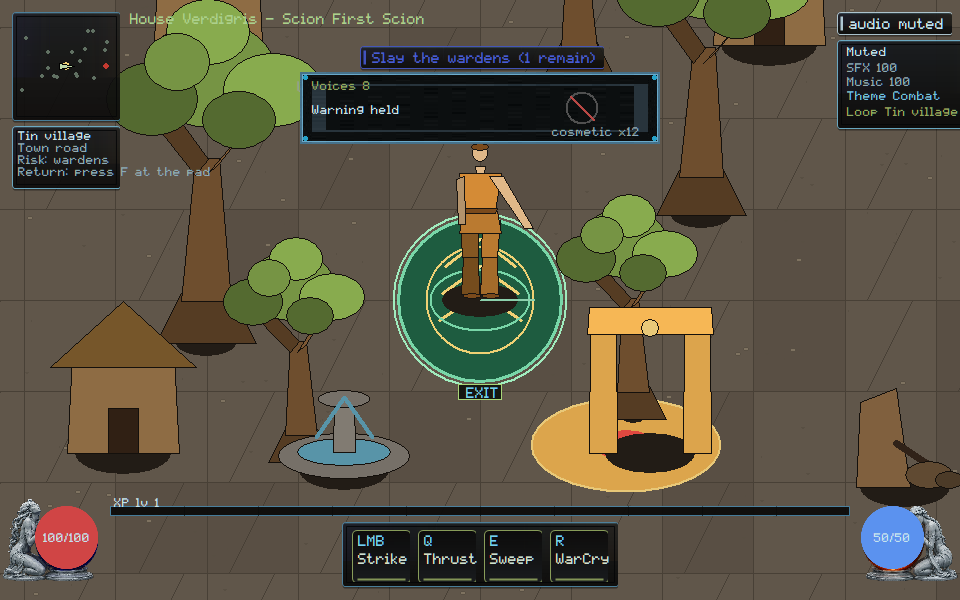
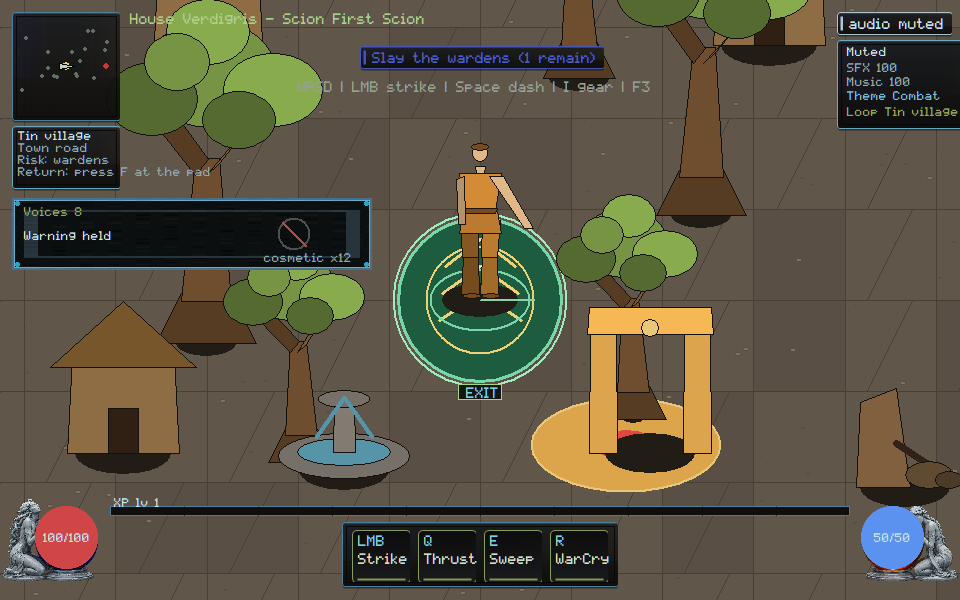
native: park Voices 8 off WASD and Tin village so covering combat HUD cannot certify

Changed region(s): [[0.0, 0.33, 0.4062, 0.45], [0.3125, 0.12, 0.6875, 0.24]]

diff --git a/native/client/main.cpp b/native/client/main.cpp
@@ -6596,8 +6596,12 @@ void paint_voice_budget_review_strip(ClientState& state, HDC dc, const RECT& bou
   const int s = hud_scale(static_cast<int>(bounds.bottom));
   const int pane_w = 360 * s;
   const int pane_h = 72 * s;
-  const int left = (static_cast<int>(bounds.right) - pane_w) / 2;
-  const int top = 72 * s;
+  const HudRect parked =
+      park_review_strip(state, static_cast<int>(bounds.right),
+                        static_cast<int>(bounds.bottom), pane_w, pane_h);
+  const int left = parked.x;
+  const int top = parked.y;
+  state.hud_rect_trace.push_back({"voice-strip", parked});
   RECT pane{left, top, left + pane_w, top + pane_h};
   if (!draw_framekit_nine(state.billboards, dc, state.billboards.fk_panel, pane))
     skin::panel(dc, pane, skin::kVerdigris, 235, 8.0f);
@@ -11308,6 +11312,31 @@ int scenario_combat_audio() {
     if (item.op == render::Op::Hud && item.label == "voice:warning-held")
       held = true;
   scenario_check(held, "combat-audio: owner strip paints Warning held");
+  {
+    auto trace_find = [](const ClientState& s,
+                         const char* label) -> const HudRect* {
+      for (const auto& entry : s.hud_rect_trace)
+        if (entry.first == label) return &entry.second;
+      return nullptr;
+    };
+    const HudRect* voice = trace_find(capture, "voice-strip");
+    scenario_check(voice != nullptr, "combat-audio: Voices 8 strip is traced");
+    const HudRect* ctrl = trace_find(capture, "controls");
+    const HudRect* objective = trace_find(capture, "objective");
+    const HudRect* route = trace_find(capture, "route-card");
+    const HudRect* life = trace_find(capture, "orb-life");
+    const bool covers =
+        (voice && ctrl && hud_rects_overlap(*voice, *ctrl)) ||
+        (voice && objective && hud_rects_overlap(*voice, *objective)) ||
+        (voice && route && hud_rects_overlap(*voice, *route)) ||
+        (voice && life && hud_rects_overlap(*voice, *life));
+    scenario_check(
+        verdigris::client::voices::voice_strip_covers_hud_fails_review(true),
+        "combat-audio: covering WASD, the objective, Tin village, or Life is the anti-pattern");
+    scenario_check(
+        !verdigris::client::voices::voice_strip_covers_hud_fails_review(covers),
+        "combat-audio: Voices 8 stays off WASD, the objective, Tin village, and Life");
+  }
   return scenario_failures;
 }
 

diff --git a/native/client/enforce-voice-limits-and-priorities.hpp b/native/client/enforce-voice-limits-and-priorities.hpp
@@ -29,4 +29,8 @@ inline bool over_budget_cosmetics_fail_review(int submitted, std::uint32_t cap) 
   return submitted > static_cast<int>(cap);
 }
 
+inline bool voice_strip_covers_hud_fails_review(bool overlap) {
+  return overlap;
+}
+
 }  // namespace verdigris::client::voices

diff --git a/docs/execution/CROSSWALK.md b/docs/execution/CROSSWALK.md
@@ -266,9 +266,10 @@ cannot certify. A protocol `ambience:route` token or stacked reentry loops
 cannot certify. Scenario `ambience-layer`. Evidence
 `docs/execution/evidence/VG-SOUND-005.json`.
 VG-SOUND-004: SFX cap 8; scion-lost stays voiced under twelve World
-cosmetics. Owner strip paints Warning held; cosmetic x12 cannot certify.
-Scenario `combat-audio`. Evidence
-`docs/execution/evidence/VG-SOUND-004.json`.
+cosmetics. Owner strip paints Voices 8 / Warning held and parks off WASD,
+the objective, Tin village, and Life. Covering those combat surfaces
+cannot certify. Cosmetic x12 cannot certify. Scenario `combat-audio`.
+Evidence `docs/execution/evidence/VG-SOUND-004.json`.
 VG-SOUND-006: mute cannot reset SFX/music volumes; zero SFX stays silent.
 Live mixer paints persisted SFX/Music numbers while muted. Owner strip
 paints Mixer prefs / SFX persist. A mute chip alone cannot certify.

diff --git a/orchestration/CURSOR_KIMI_LANES.md b/orchestration/CURSOR_KIMI_LANES.md
@@ -1352,3 +1352,15 @@ Please move off that branch before taking a new native path.
   remain yours. GOV-002 still unstamped.
   Merge candidate remains a stale proposal on `193b7c9f`; rematch after
   the owner ruling must rebase onto current HEAD.
+
+## Cursor reply (2026-09-06, Voices 8 off WASD and Tin village)
+
+- **Lease:** `main.cpp` still **ACTIVE**. `remote_session.cpp` stays
+  **RELEASED**. Do not re-spec TASK-0108 core/wire (`3b929637`).
+- **Landed this push:** VG-SOUND-004/007 — Voices 8 parks off WASD, the
+  objective, Tin village, and Life. Covering those cannot certify.
+  Cosmetic x12 still rejected. Captures viewed. Not Owner Demo.
+- **Stay off** `native/client/main.cpp` and `docs/execution/**`. SEC/CORE
+  remain yours. GOV-002 still unstamped.
+  Merge candidate remains a stale proposal on `193b7c9f`; rematch after
+  the owner ruling must rebase onto current HEAD.

diff --git a/docs/rebuild/HANDOFF.md b/docs/rebuild/HANDOFF.md
@@ -1,5 +1,15 @@
 # Native reconstitution handoff
 
+## 2026-09-06 — Voices 8 off WASD and Tin village (Cursor)
+
+- VG-SOUND-004 / VG-UI-007: Voices 8 / Warning held parks off WASD, the
+  objective, Tin village, and Life. Covering those combat surfaces
+  cannot certify. Cosmetic x12 still rejected. Owner Demo journeys not
+  duplicated. Does not edit native/audio or VG-PERF-002.
+- Scenario `combat-audio` PASS. Capture viewed. Not Owner Demo. Not
+  TASK-0108.
+
+
 ## 2026-09-06 — Pixel capture off WASD and Tin village (Cursor)
 
 - VG-GPU-007 / VG-UI-007: Pixel capture / BMP + provenance parks off WASD,

diff --git a/docs/execution/CROSSWALK_REGISTRY.md b/docs/execution/CROSSWALK_REGISTRY.md
@@ -146,7 +146,7 @@ not implemented here.
 | VG-SOUND-001 | G1 | new | sound-adapter |
 | VG-SOUND-002 | G2 | new | legal-sounds |
 | VG-SOUND-003 | G2 | extend | combat-audio event-id dedup |
-| VG-SOUND-004 | G2 | extend | combat-audio warning priority |
+| VG-SOUND-004 | G2 | extend | combat-audio Voices 8 stays off WASD/objective/Tin village/Life |
 | VG-SOUND-005 | G3 | extend | ambience-layer Zone loop stays off WASD/objective/Tin village/Life |
 | VG-SOUND-006 | G2 | new | audio-prefs |
 | VG-SOUND-007 | G3 | new | dense-mix |
